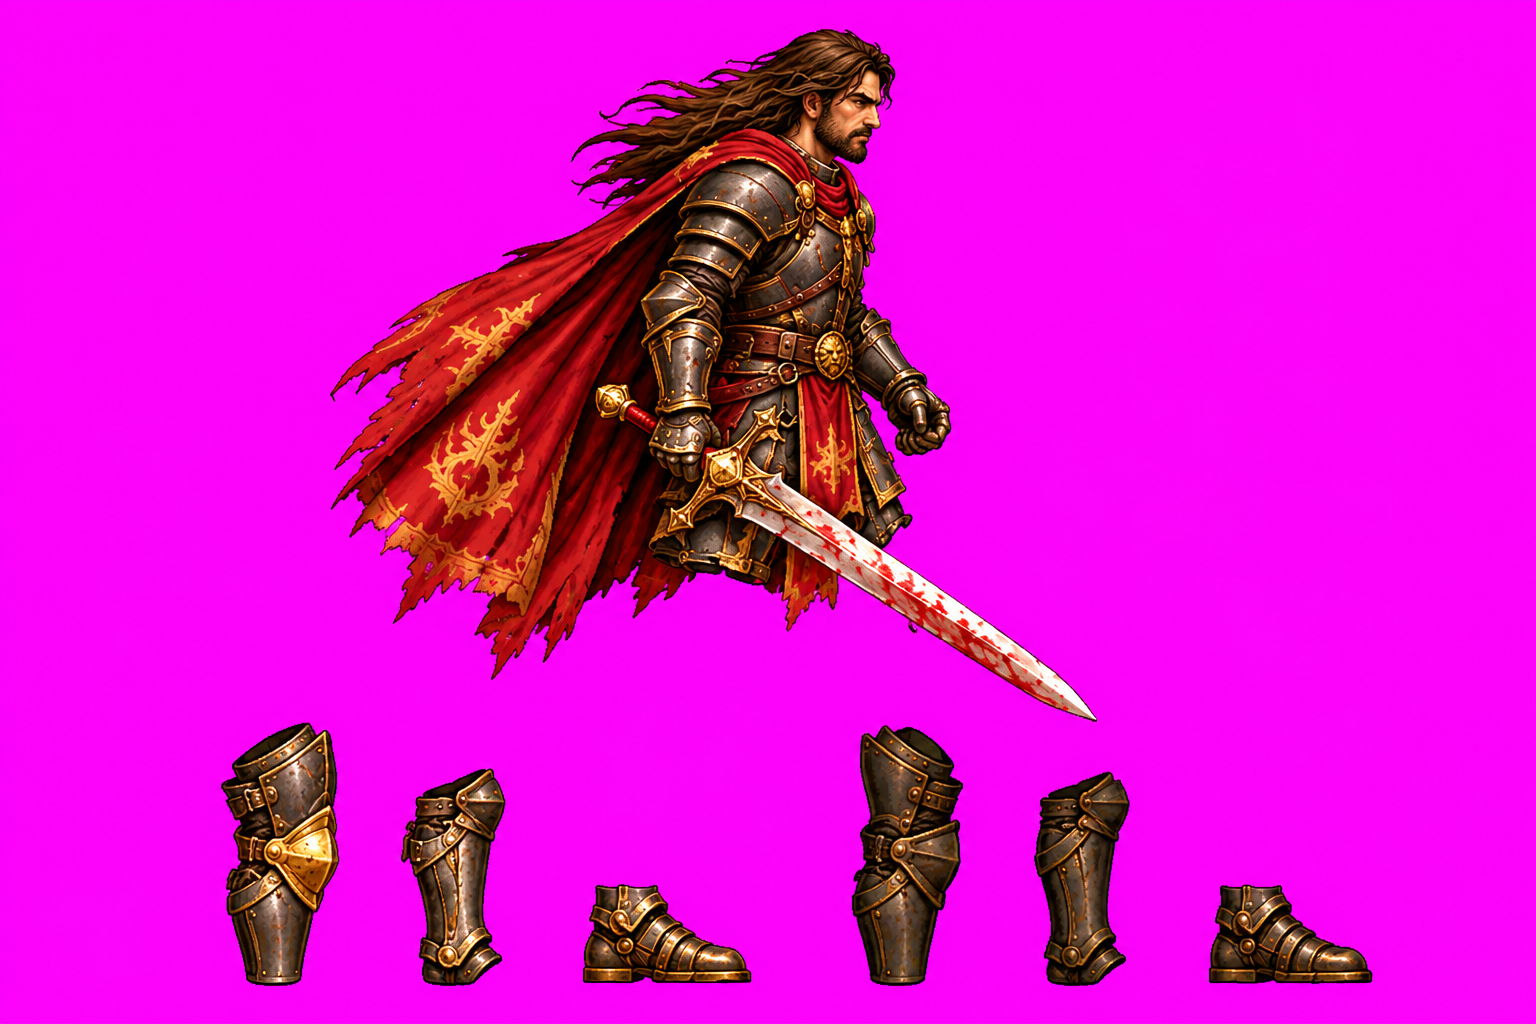
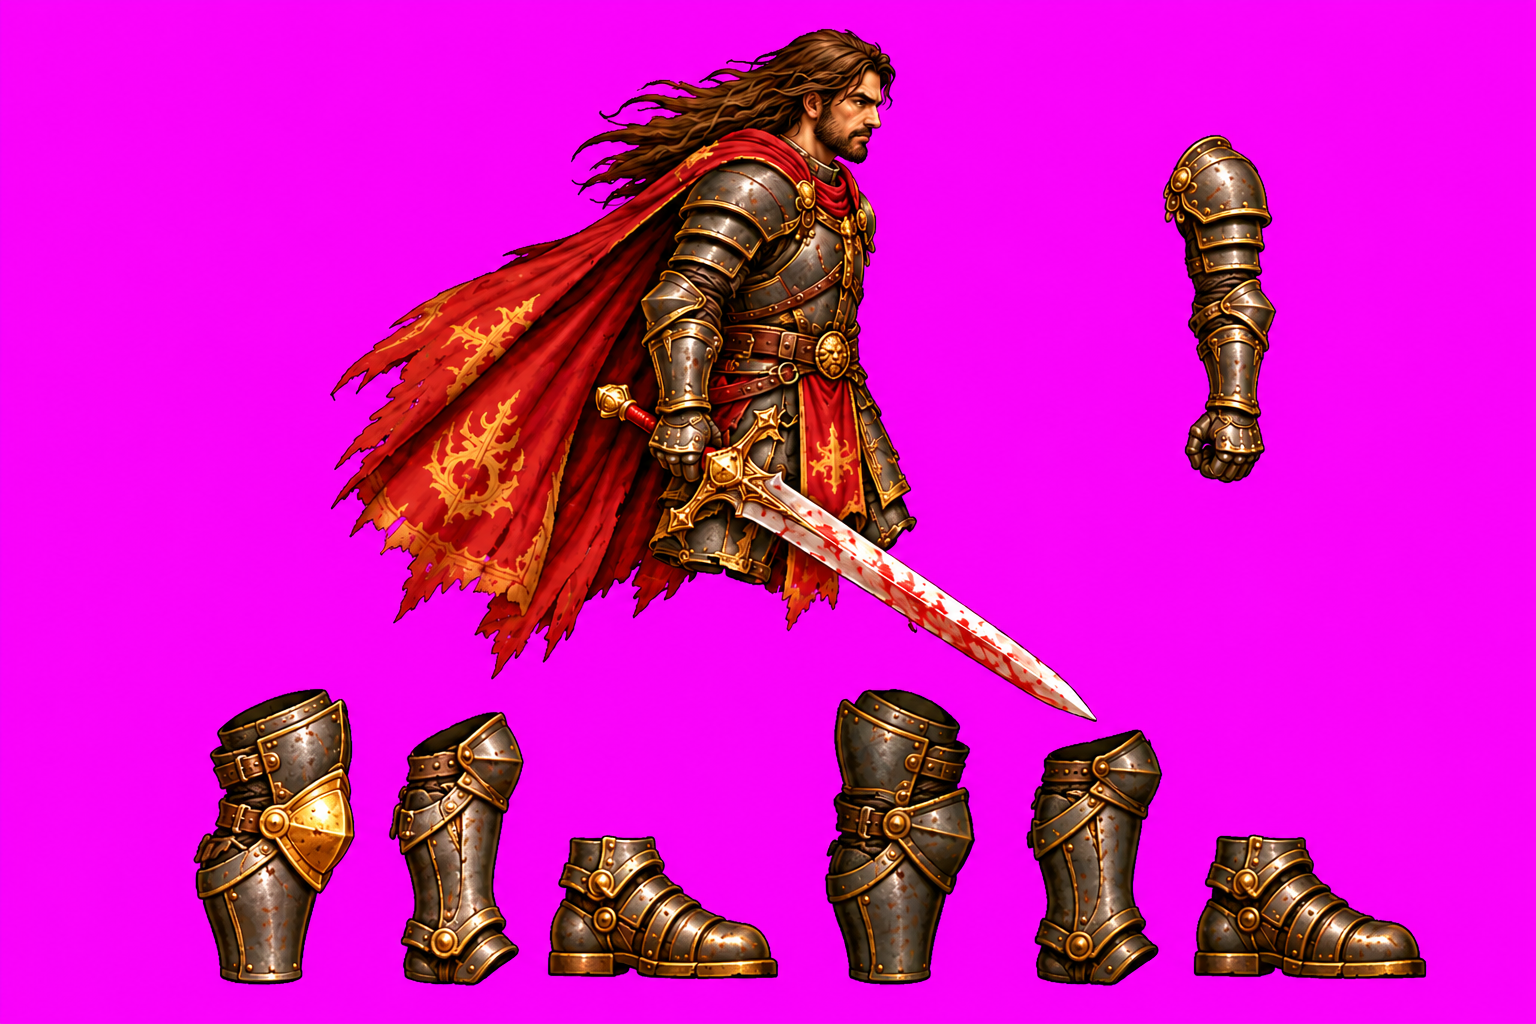
Rurik's walk: thicker legs, swinging free arm, upper body sway
Nick: legs looked like chicken legs and the upper body was too stiff. ChatGPT repainted
the leg pieces about 50% wider and split the free arm off the body. The rig now swings
that arm opposite the far leg, rocks the torso each step and lets the cape and hair trail.

Claude-Session: https://claude.ai/code/session_01P4UALjYv8P77DgnnNx5udK

Changed region(s): [[0.125, 0.6562, 0.9375, 0.9688], [0.2188, 0.0312, 0.6875, 0.6875], [0.75, 0.125, 0.8438, 0.4688]]

diff --git a/src/data/spriteStrips.js b/src/data/spriteStrips.js
@@ -94,7 +94,7 @@ export const ANIM_OVERRIDES = {
     // Continuous, distance-driven march; use every drawing without duplicate holds.
     // Side walk: ChatGPT-painted body and leg pieces, rigged into a 12-pose stride
     // (docs/rurik-walk). stride = world px per full cycle, so the planted foot doesn't slide.
-    walk: { needs: ['walk2'], frames: seq('walk2', [0, 1, 2, 3, 4, 5, 6, 7, 8, 9, 10, 11]), fps: 11, loop: true, march: true, stride: 86 },
+    walk: { needs: ['walk2'], frames: seq('walk2', [0, 1, 2, 3, 4, 5, 6, 7, 8, 9, 10, 11]), fps: 11, loop: true, march: true, stride: 92 },
     walkU: { needs: ['walkU'], frames: seq('walkU', [0, 1, 2, 3, 4, 5, 6, 7]), fps: 11, loop: true, march: true },
     walkD: { needs: ['walkD'], frames: seq('walkD', [0, 1, 2, 3, 4, 5, 6, 7]), fps: 11, loop: true, march: true },
     walkUD: { needs: ['walkUD'], frames: seq('walkUD', [0, 1, 2, 3, 4, 5, 6, 7, 8]), fps: 11, loop: true, march: true },

diff --git a/docs/rurik-walk/rig.py b/docs/rurik-walk/rig.py
@@ -1,78 +1,93 @@
-import math, json, sys, numpy as np
-from PIL import Image, ImageDraw
-P='parts/'
-def load(n): return Image.open(P+n+'.png').convert('RGBA')
-parts={n:load(n) for n in ['body','nthigh','nshin','nboot','fthigh','fshin','fboot']}
-CFG=dict(hip=(464,470), farhip=(-14,-6), thigh_top=30, thigh_knee=22, shin_top=40, shin_ankle=18,
-         ankle=(51,22), sole_heel=(12,104), sole_toe=(170,104))
-
-# keyframes: t, hip, knee, foot
+# rig.py: Rurik's side walk from ChatGPT-painted pieces (docs/rurik-walk/README.md)
+import math, numpy as np
+from PIL import Image
+NAMES=['body','arm','nthigh','nshin','nboot','fthigh','fshin','fboot']
+parts={}
+def load(pdir):
+    for n in NAMES: parts[n]=Image.open(f'{pdir}/{n}.png').convert('RGBA')
+    parts['nboot']=scale(parts['nboot'],CFG['boot_scale']); parts['fboot']=scale(parts['fboot'],CFG['boot_scale'])
+def scale(im,s): return im.resize((round(im.width*s),round(im.height*s)),Image.LANCZOS)
+# piece coords (px in each cut-out); body piece origin is its own bbox
+CFG=dict(hip=(464,470), farhip=(-16,-6), shoulder=(530,225), arm_top=(60,45),
+         thigh_top=40, thigh_knee=30, shin_top=45, shin_ankle=25, boot_scale=0.82,
+         ankle=0.30, ankle_y=0.15, sole_in=0.04)
 KF=[(0.00,32,4,16),(0.12,25,18,0),(0.30,10,10,0),(0.48,-12,8,0),(0.60,-28,22,-22),(0.72,-12,62,-16),(0.86,18,48,0)]
+ST=0.60
 def interp(t,idx):
     t%=1; n=len(KF); ts=[k[0] for k in KF]
     i=max(j for j in range(n) if ts[j]<=t); j=(i+1)%n
-    t0=ts[i]; t1=ts[j] if j else 1.0
-    u=(t-t0)/(t1-t0)
+    t0=ts[i]; t1=ts[j] if j else 1.0; u=(t-t0)/(t1-t0)
     p0=KF[(i-1)%n][idx]; p1=KF[i][idx]; p2=KF[j][idx]; p3=KF[(j+1)%n][idx]
     return 0.5*((2*p1)+(-p0+p2)*u+(2*p0-5*p1+4*p2-p3)*u*u+(-p0+3*p1-3*p2+p3)*u**3)
-def d(a): r=math.radians(a); return (math.sin(r), math.cos(r))
-ST=0.60
 def lens():
     th=parts['nthigh']; sh=parts['nshin']
     return th.height-CFG['thigh_top']-CFG['thigh_knee'], sh.height-CFG['shin_top']-CFG['shin_ankle']
 def ankx(a,k):
     L1,L2=lens(); return L1*math.sin(math.radians(a))+L2*math.sin(math.radians(a-k))
-def solve_a(x,k,guess):
-    a=guess
+def solve_a(x,k,a):
     for _ in range(30):
         f=ankx(a,k)-x; df=(ankx(a+0.01,k)-ankx(a,k))/0.01; a-=f/df
     return a
+def d(a): r=math.radians(a); return (math.sin(r), math.cos(r))
 def leg(hip,t):
-    t%=1
-    a=interp(t,1); k=interp(t,2); c=interp(t,3)
+    t%=1; a=interp(t,1); k=interp(t,2); c=interp(t,3)
     if t<=ST:
-        X0=ankx(KF[0][1],KF[0][2]); X1=ankx(KF[4][1],KF[4][2])
-        a=solve_a(X0+(X1-X0)*t/ST,k,a)
-    L1,L2=lens()
-    knee=(hip[0]+L1*d(a)[0],hip[1]+L1*d(a)[1]); b=a-k
-    ank=(knee[0]+L2*d(b)[0],knee[1]+L2*d(b)[1])
-    return dict(a=a,b=b,c=c,hip=hip,knee=knee,ank=ank)
+        X0=ankx(KF[0][1],KF[0][2]); X1=ankx(KF[4][1],KF[4][2]); a=solve_a(X0+(X1-X0)*t/ST,k,a)
+    L1,L2=lens(); knee=(hip[0]+L1*d(a)[0],hip[1]+L1*d(a)[1]); b=a-k
+    return dict(a=a,b=b,c=c,hip=hip,knee=knee,ank=(knee[0]+L2*d(b)[0],knee[1]+L2*d(b)[1]))
+def boot_pts():
+    bt=parts['nboot']; w,h=bt.size
+    return (w*CFG['ankle'],h*CFG['ankle_y']), (w*CFG['sole_in'],h-3), (w*(1-CFG['sole_in']),h-3)
 def rotpt(p,piv,ang):
     r=math.radians(-ang); x,y=p[0]-piv[0],p[1]-piv[1]
     return (x*math.cos(r)-y*math.sin(r), x*math.sin(r)+y*math.cos(r))
 def soles(L):
-    out=[]
-    for sp in (CFG['sole_heel'],CFG['sole_toe']):
-        v=rotpt(sp,CFG['ankle'],L['c']); out.append((L['ank'][0]+v[0],L['ank'][1]+v[1]))
+    piv,heel,toe=boot_pts(); out=[]
+    for sp in (heel,toe):
+        v=rotpt(sp,piv,L['c']); out.append((L['ank'][0]+v[0],L['ank'][1]+v[1]))
     return out
 def paste(canvas,im,piv,ang,pos):
     R=int(math.hypot(*im.size))+4
     pad=Image.new('RGBA',(2*R,2*R)); pad.paste(im,(int(R-piv[0]),int(R-piv[1])))
     pad=pad.rotate(ang,resample=Image.BICUBIC,center=(R,R))
     canvas.alpha_composite(pad,(int(round(pos[0]-R)),int(round(pos[1]-R))))
-def draw_leg(canvas,L,pre,dy):
+def draw_leg(canvas,L,pre,off):
     th,sh,bt=parts[pre+'thigh'],parts[pre+'shin'],parts[pre+'boot']
-    sh_off=lambda p:(p[0],p[1]+dy)
-    paste(canvas,bt,CFG['ankle'],L['c'],sh_off(L['ank']))
-    paste(canvas,sh,(sh.width/2,CFG['shin_top']),L['b'],sh_off(L['knee']))
-    paste(canvas,th,(th.width/2,CFG['thigh_top']),L['a'],sh_off(L['hip']))
-def frame(t,W=1400,H=1250,ground=1180,cx=700):
-    hipN=(cx,0); hipF=(cx+CFG['farhip'][0],CFG['farhip'][1])
+    o=lambda p:(p[0]+off[0],p[1]+off[1])
+    paste(canvas,bt,boot_pts()[0],L['c'],o(L['ank']))
+    paste(canvas,sh,(sh.width/2,CFG['shin_top']),L['b'],o(L['knee']))
+    paste(canvas,th,(th.width/2,CFG['thigh_top']),L['a'],o(L['hip']))
+def sway_body(t,bob_vel):
+    # cape and hair trail: everything behind the back moves with a lag, more toward the ends
+    b=np.array(parts['body']).astype(np.float32); H,W=b.shape[:2]
+    hx,hy=CFG['hip']; back=hx-120
+    yy,xx=np.mgrid[0:H,0:W].astype(np.float32)
+    w=np.clip((back-xx)/250,0,1)*np.clip((yy-60)/450,0,1.2)          # cape: behind the back, lower = more
+    hair=np.clip((back+60-xx)/200,0,1)*np.clip((220-yy)/120,0,1)       # hair streaming back
+    ph=2*math.pi*2*t
+    dx=w*(10*math.sin(ph-1.2))+hair*(6*math.sin(ph-0.8))
+    dy=w*(-bob_vel*0.9)+w*(5*math.cos(ph-1.2))
+    sx=np.clip(xx-dx,0,W-1); sy=np.clip(yy-dy,0,H-1)
+    x0=np.floor(sx).astype(int); y0=np.floor(sy).astype(int); x1=np.minimum(x0+1,W-1); y1=np.minimum(y0+1,H-1)
+    fx=(sx-x0)[...,None]; fy=(sy-y0)[...,None]
+    out=b[y0,x0]*(1-fx)*(1-fy)+b[y0,x1]*fx*(1-fy)+b[y1,x0]*(1-fx)*fy+b[y1,x1]*fx*fy
+    return Image.fromarray(out.clip(0,255).astype(np.uint8),'RGBA')
+def hip_drop(t):
+    hipN=(0,0); hipF=(CFG['farhip'][0],CFG['farhip'][1])
     Ln=leg(hipN,t); Lf=leg(hipF,t+0.5)
-    low=max(p[1] for L in (Ln,Lf) for p in soles(L))
-    dy=ground-low
+    return max(p[1] for L in (Ln,Lf) for p in soles(L)),Ln,Lf
+def frame(t,W=1600,H=1300,ground=1220,cx=760):
+    low,Ln,Lf=hip_drop(t); hy=ground-low
+    vel=(hip_drop(t+0.01)[0]-hip_drop(t-0.01)[0])/0.02/40   # px per 1/40 cycle
+    ph=2*math.pi*t
+    lean=1.6*math.sin(2*ph+0.6)+1.0                            # slight forward lean, rocks each step
     c=Image.new('RGBA',(W,H))
-    draw_leg(c,Lf,'f',dy); draw_leg(c,Ln,'n',dy)
-    b=parts['body']; c.alpha_composite(b,(int(cx-CFG['hip'][0]),int(dy-CFG['hip'][1])))
-    # stance foot x (for stride calc)
-    feet=[min(soles(L),key=lambda p:-p[1])[0] for L in (Ln,Lf)]
-    return c,dy,Ln,Lf
-if __name__=='__main__':
-    out=sys.argv[1]; N=8
-    fr=[frame(i/N)[0] for i in range(N)]
-    sheet=Image.new('RGBA',(N*350,330),(60,58,66,255))
-    for i,f in enumerate(fr):
-        bb=f.getbbox(); s=f.resize((f.width//4,f.height//4),Image.LANCZOS); sheet.alpha_composite(s,(i*350,0))
-    sheet.convert('RGB').save(out)
-    # stride: track near ankle x relative while stance between t=0.05..0.5
-    xs=[leg((0,0),t)['ank'][0] for t in (0.02,0.5)]; print('stance sweep',xs[0]-xs[1])
+    hip=(cx,hy)
+    # free (far) arm: swings opposite the far leg, i.e. with the near leg; behind the body
+    arm_ang=22*math.cos(ph)+4
+    sh=rotpt((CFG['shoulder'][0],CFG['shoulder'][1]),CFG['hip'],lean)
+    paste(c,parts['arm'],CFG['arm_top'],arm_ang+lean*0.5,(hip[0]+sh[0],hip[1]+sh[1]))
+    draw_leg(c,Lf,'f',(cx,hy)); draw_leg(c,Ln,'n',(cx,hy))
+    body=sway_body(t,vel)
+    paste(c,body,CFG['hip'],-lean,hip)
+    return c,hy,Ln,Lf

diff --git a/docs/rurik-walk/parts.py b/docs/rurik-walk/parts.py
@@ -1,7 +1,7 @@
 import sys, numpy as np
 from PIL import Image
 from scipy import ndimage
-def extract(path, outdir):
+def extract(path, outdir, names=None):
     a=np.asarray(Image.open(path).convert('RGB')).astype(int)
     r,g,b=a[...,0],a[...,1],a[...,2]
     bg=(r>140)&(b>140)&(r-g>70)&(b-g>70)
@@ -21,10 +21,10 @@ def extract(path, outdir):
     fix=edge&(spill>30)
     rgb[...,0]=np.where(fix,np.minimum(rgb[...,0],rgb[...,1]+50),rgb[...,0]); rgb[...,2]=np.where(fix,np.minimum(rgb[...,2],rgb[...,1]+25),rgb[...,2])
     rgba[...,:3]=rgb.clip(0,255)
-    names=['body','nthigh','nshin','nboot','fthigh','fshin','fboot']
+    names=names or ['body','nthigh','nshin','nboot','fthigh','fshin','fboot']
     for nm,p in zip(names,parts):
         x0,y0,x1,y1,s,l=p
         m=(lab[y0:y1,x0:x1]==l)
         crop=rgba[y0:y1,x0:x1].copy(); crop[...,3]=np.where(m,crop[...,3],0)
         Image.fromarray(crop,'RGBA').save(f'{outdir}/{nm}.png'); print(nm,p[:4],s)
-if __name__=='__main__': extract(sys.argv[1],sys.argv[2])
+if __name__=='__main__': extract(sys.argv[1],sys.argv[2],sys.argv[3].split(',') if len(sys.argv)>3 else None)

diff --git a/docs/rurik-walk/bake.py b/docs/rurik-walk/bake.py
@@ -4,10 +4,12 @@ sys.path.insert(0,__import__('os').path.dirname(__file__))
 import rig
 from PIL import Image
 pdir,old,out_hd,out_strip=sys.argv[1:5]; N=int(sys.argv[5]) if len(sys.argv)>5 else 12
-rig.parts={n:Image.open(pdir+'/'+n+'.png').convert('RGBA') for n in rig.parts}
+import json, os
+if os.path.exists(pdir+'/cfg.json'): rig.CFG.update({k:tuple(v) if isinstance(v,list) else v for k,v in json.load(open(pdir+'/cfg.json')).items()})
+rig.load(pdir)
 FW,FH,COLS=416,480,6
 frames=[rig.frame(i/N)[0] for i in range(N)]
-GROUND=1180
+GROUND=1220
 hs=[GROUND-f.getbbox()[1] for f in frames]; H=np.median(hs)
 scale=224/H
 def headx(f):

diff --git a/docs/rurik-walk/README.md b/docs/rurik-walk/README.md
@@ -6,12 +6,17 @@ wobbles). So the walk is now rigged: ChatGPT painted Rurik once in pieces, and c
 the legs.
 
 Art (ChatGPT desktop, Bloody axe project, magenta background):
-- `parts-oathkeeper.png`, `parts-old-sword.png`: the upper body with no legs, then near
-  thigh / shin / boot and far (darker) thigh / shin / boot, each straight up and down.
-  The old-sword sheet is a repaint of the Oathkeeper one with the old outfit attached.
+- `parts-oathkeeper.png`, `parts-old-sword.png`: the upper body with no legs and only the
+  sword arm, the free arm on its own (top right), then near thigh / shin / boot and far
+  (darker) thigh / shin / boot, each straight up and down. The old-sword sheet is a repaint
+  of the Oathkeeper one with the old outfit attached.
+- Round 3 (Nick: "chicken legs", "upper body too stiff"): ChatGPT repainted the legs about
+  50% wider and split off the free arm.
 
 Build (Python 3 + Pillow + numpy + scipy):
-1. `python3 parts.py parts-oathkeeper.png <dir>`: cuts the 7 pieces out.
+1. `python3 parts.py parts-oathkeeper.png <dir> body,arm,nthigh,nshin,nboot,fthigh,fshin,fboot`:
+   cuts the 8 pieces out. For the old sword, copy `old-sword-cfg.json` to `<dir>/cfg.json`
+   (its body piece sits a few px differently).
 2. `python3 bake.py <dir> <old walk2 HD sheet> <out HD sheet> <out strip>`: rigs and bakes
    12 poses into `assets/sprites/heroes-hd/rurik-<sheet>-walk2.png` (416x480 cells, 6
    columns, feet on y=459, 224 px tall like before). Run from this folder.
@@ -19,9 +24,11 @@ Build (Python 3 + Pillow + numpy + scipy):
 rig.py: hip/knee/foot keyframes (KF) for one leg, the other half a cycle behind. During
 stance the hip angle is solved so the ankle moves back at a constant speed (planted foot),
 and the body height follows the lowest sole (natural bob). Draw order: far leg, near leg,
-then the body, so the skirt and tabard cover the hip joints.
+then the body, so the skirt and tabard cover the hip joints. The free arm (behind the
+body) swings opposite the far leg, the body rocks a degree or two each step, and the cape
+and hair are warped so they trail and lag the bob.
 
 bake.py prints `stride_world`: world px per full cycle. It is the walk anim's `stride`
-in data/spriteStrips.js (86), which view/MarchCycle.js uses so the feet don't slide.
+in data/spriteStrips.js (92), which view/MarchCycle.js uses so the feet don't slide.
 
 Not redone yet: the up/down and three-quarter walks (walkU/D/UD/DD).
